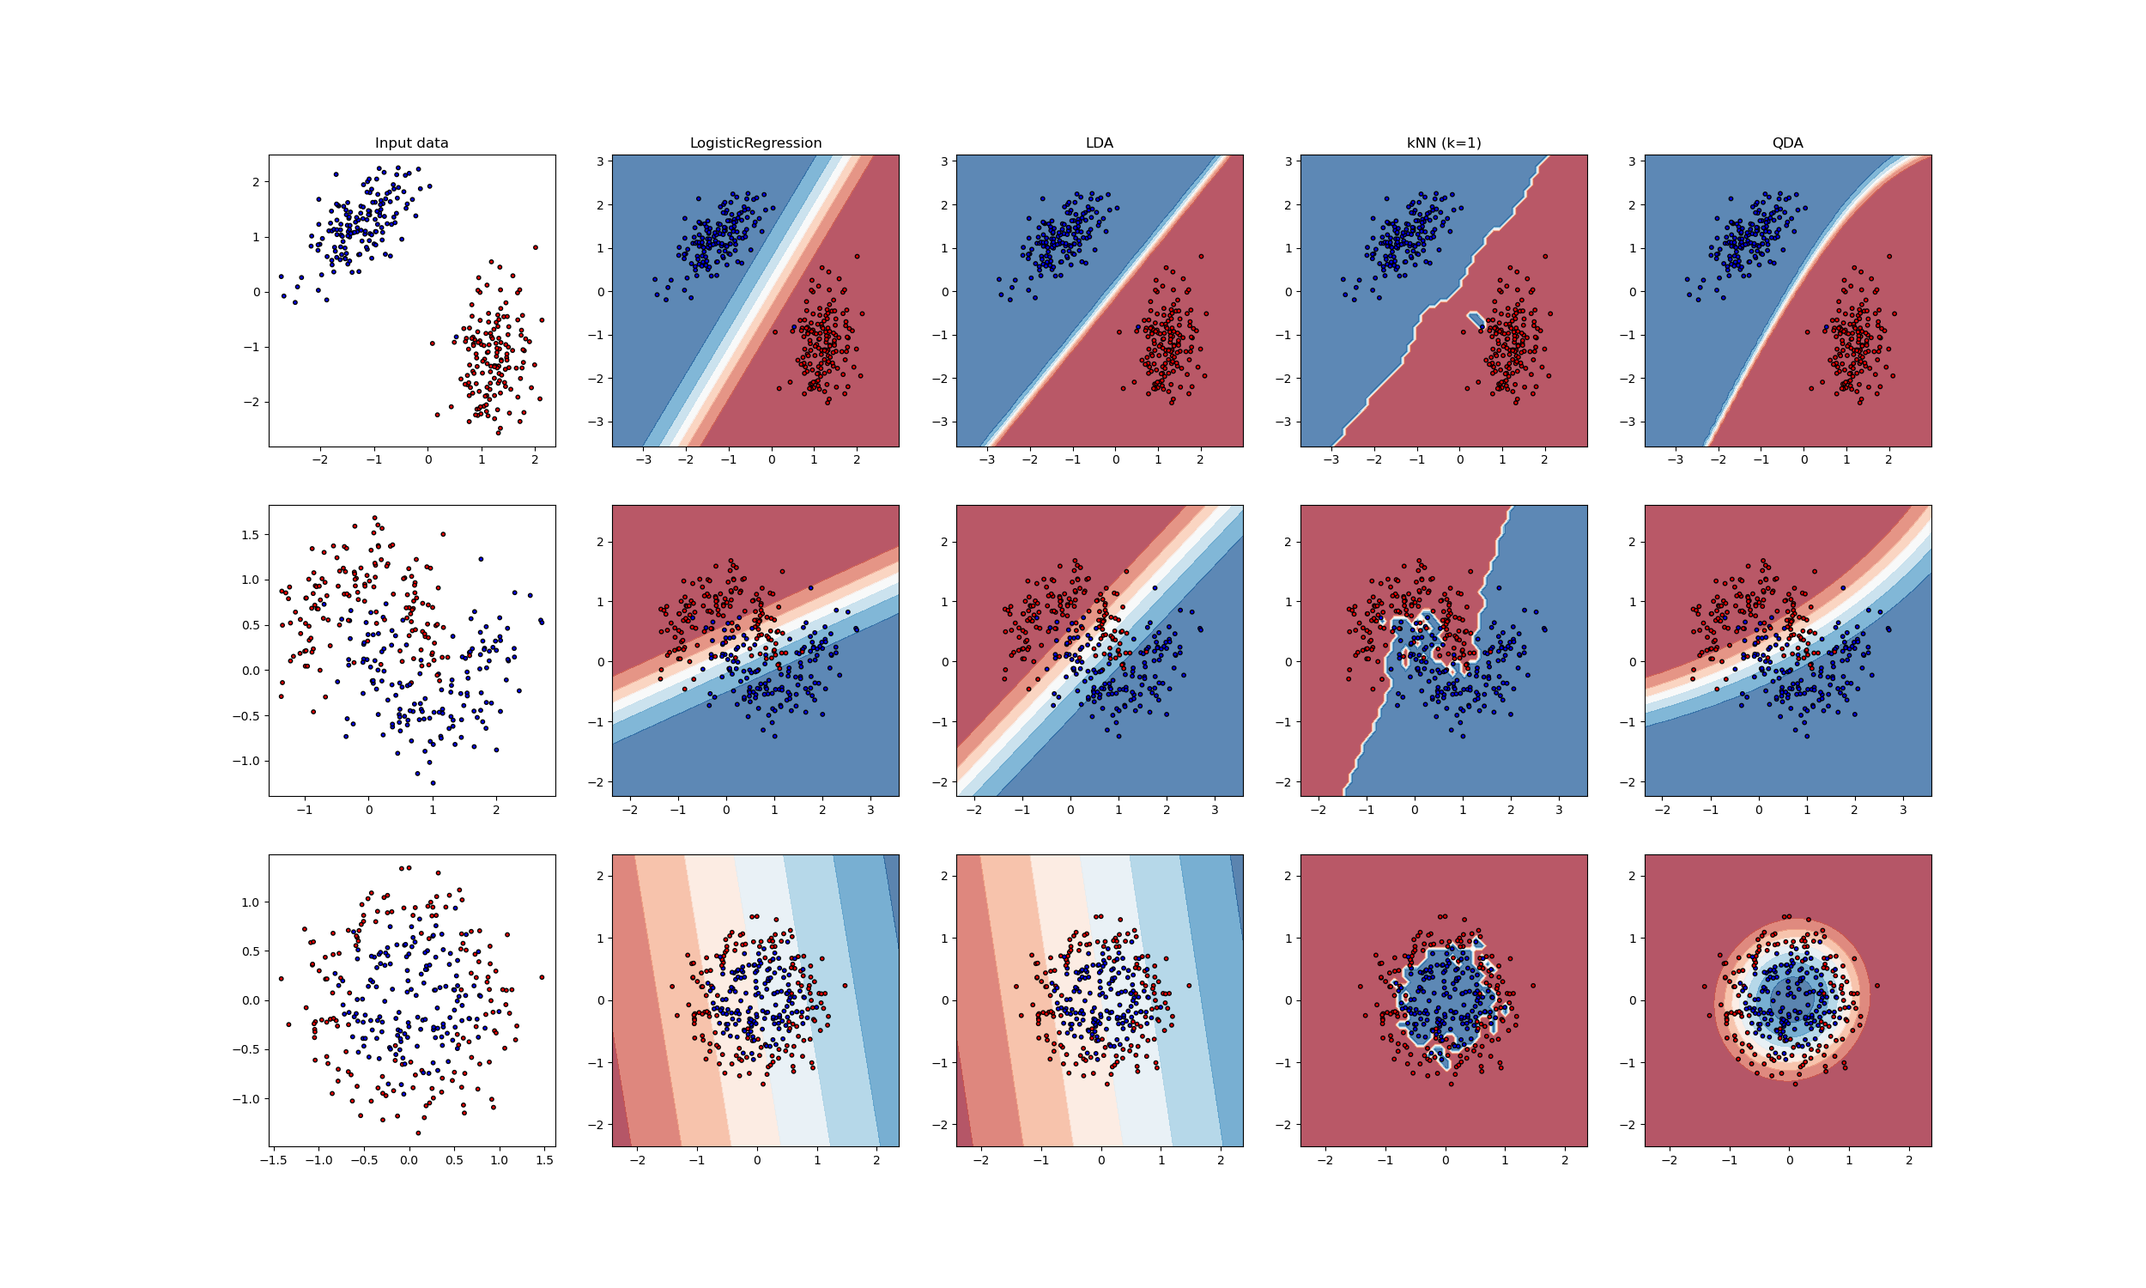
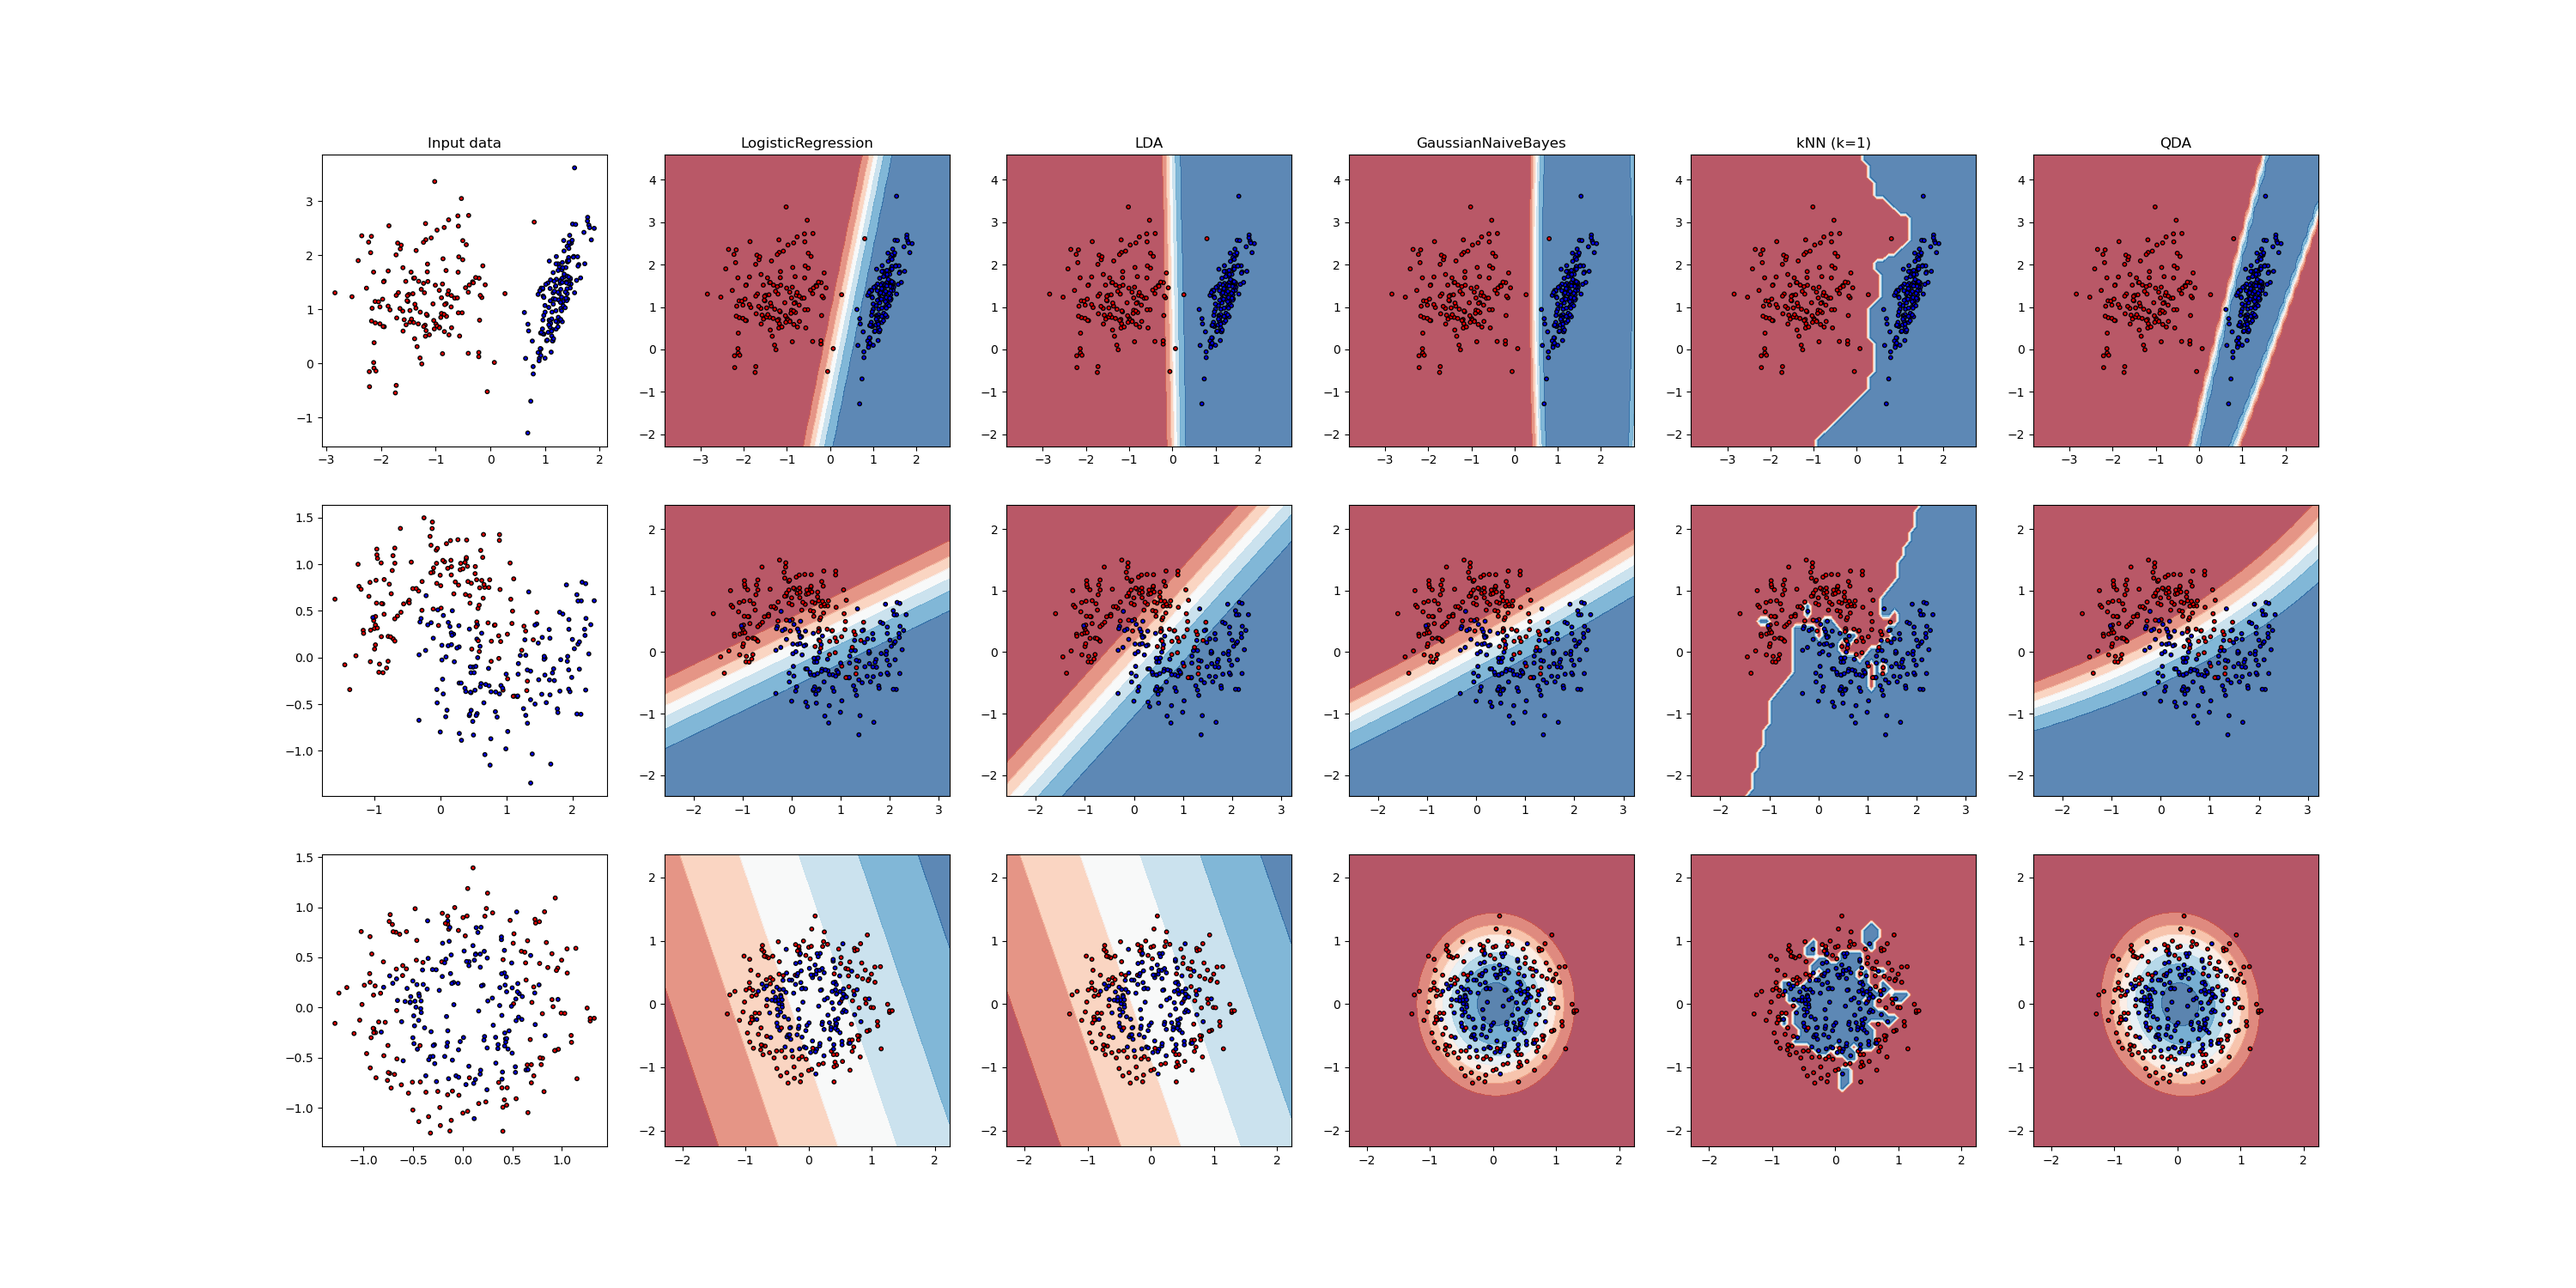
Gaussian Naive Bayes

diff --git a/eml/supervised_learning/discriminant_analysis.py b/eml/supervised_learning/discriminant_analysis.py
@@ -75,10 +75,8 @@ class LinearDiscriminantAnalysis(DiscriminantAnalysis):
         # Project
         X_new = self.transform(X)
 
-        # Compute class posteriors P(X|cls)
-        # P(cls|X) = P(X|cls) / P(X), with P(X)=sum_{c} P(X|c)
-        posteriors = np.array([multivariate_normal.pdf(X_new, self.centroids[cls], self.cov) for cls in range(self.n_classes)]).T
-        # Divide by evidence P(X)
+        # P(cls|X) = P(X|cls) * P(cls)/ P(X), with P(X)=sum_{c} P(X|c)
+        posteriors = np.array([self.class_priors[cls] * multivariate_normal.pdf(X_new, self.centroids[cls], self.cov) for cls in range(self.n_classes)]).T
         prob = posteriors / np.repeat(np.sum(posteriors,axis=1)[...,np.newaxis], posteriors.shape[1], axis=1)
         return prob
 
@@ -93,10 +91,8 @@ class QuadraticDiscriminantAnalysis(DiscriminantAnalysis):
         _, self.cov_, self.centroids = super()._compute_covariances(X_)
 
     def predict_proba(self, X):
-        # Compute class posteriors P(X|cls)
         # P(cls|X) = P(X|cls) / P(X), with P(X)=sum_{c} P(X|c)
-        posteriors = np.array([multivariate_normal.pdf(X, self.centroids[cls], self.cov_[cls]) for cls in range(self.n_classes)]).T
-        # Divide by evidence P(X)
+        posteriors = np.array([self.class_priors[cls] * multivariate_normal.pdf(X, self.centroids[cls], self.cov_[cls]) for cls in range(self.n_classes)]).T
         prob = posteriors / np.repeat(np.sum(posteriors,axis=1)[...,np.newaxis], posteriors.shape[1], axis=1)
         return prob
 

diff --git a/eml/supervised_learning/naive_bayes.py b/eml/supervised_learning/naive_bayes.py
@@ -1,0 +1,23 @@
+import numpy as np
+from scipy.stats import multivariate_normal
+
+class GaussianNB():
+
+    def fit(self, X, y):
+        # Estimate class priors
+        unique, unique_counts = np.unique(y, return_counts=True)
+        self.n_classes = len(unique)
+        self.class_priors = unique_counts / len(y)
+        # Estimate normal distribution parameters (MLE)
+        # Naive Bayes is equivalent to assuming Normal distributed classes with diagonal covariance matrix
+        self.centroids = [np.mean(X[y == cls], axis=0) for cls in range(self.n_classes)]
+        self.cov = [np.diag(np.mean((X[y==cls] - self.centroids[cls])**2, axis=0)) for cls in range(self.n_classes)]
+
+    def predict_proba(self, X):
+        posteriors = np.array([self.class_priors[cls] * multivariate_normal.pdf(X, self.centroids[cls], self.cov[cls]) for cls in range(self.n_classes)]).T
+        prob = posteriors / np.repeat(np.sum(posteriors,axis=1)[...,np.newaxis], posteriors.shape[1], axis=1)
+        return prob
+
+    def predict(self, X):
+        prob = self.predict_proba(X)
+        return np.argmax(prob, axis=1)

diff --git a/eml/examples/test_classification.py b/eml/examples/test_classification.py
@@ -1,9 +1,9 @@
-import numpy as np
 from sklearn.datasets import make_classification, make_moons, make_circles
 
 from eml.supervised_learning.logistic_regression import LogisticRegression
 from eml.supervised_learning.kNN import KNearestNeighbors
 from eml.supervised_learning.discriminant_analysis import LinearDiscriminantAnalysis, QuadraticDiscriminantAnalysis
+from eml.supervised_learning.naive_bayes import GaussianNB
 
 import matplotlib.pyplot as plt
 import eml.utils.plot as plot
@@ -15,6 +15,7 @@ n_samples = 300
 models = [
     LogisticRegression(n_iter, lr),
     LinearDiscriminantAnalysis(),
+    GaussianNB(),
     KNearestNeighbors(k=1),
     QuadraticDiscriminantAnalysis(),
 ]
@@ -22,6 +23,7 @@ models = [
 names = [
     'LogisticRegression',
     'LDA',
+    'GaussianNaiveBayes',
     'kNN (k=1)',
     'QDA']
 
